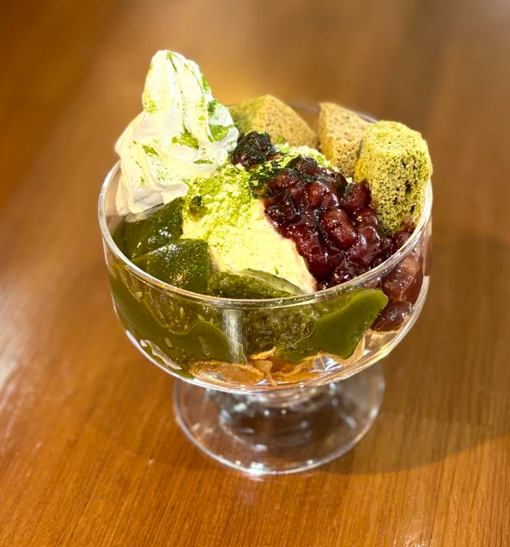
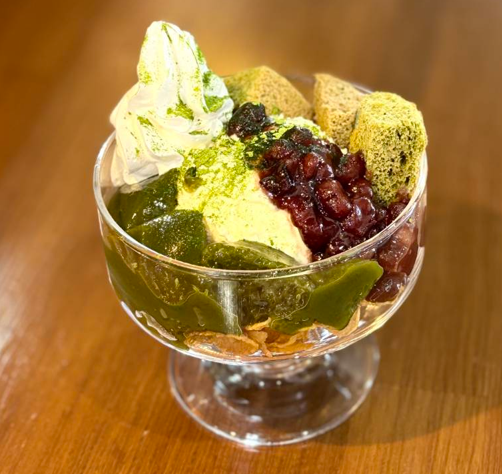
Update menu details, layouts, image position styles, and asset files

diff --git a/menu.html b/menu.html
@@ -57,7 +57,7 @@
 <nav id="mobileNav" class="mobile-nav" role="navigation" aria-label="モバイルナビゲーション">
   <button id="mobileNavClose" class="close-btn" aria-label="メニューを閉じる">✕</button>
   <a href="index.html">トップ</a>
-  <a href="about.html">あんどのこと</a>
+  <a href="about.html">お店について</a>
   <a href="index.html#children">お子様連れ歓迎</a>
   <a href="menu.html">メニュー</a>
   <a href="gallery.html">ギャラリー</a>
@@ -93,8 +93,8 @@
     <a href="index.html" class="back-to-home">
       <span>← トップページへ戻る</span>
     </a>
-    <h1 class="menu-page-title">お品書き</h1>
-    <p style="color: var(--green); font-size: 0.95rem; font-weight: 600; letter-spacing: 0.1em; margin-top: 0.5rem;">テイクアウト承ります。</p>
+    <h1 class="menu-page-title">メニュー</h1>
+    <p style="color: var(--green); font-size: 0.95rem; font-weight: 600; letter-spacing: 0.1em; margin-top: 0.5rem;">テイクアウト承ります</p>
     <div class="accent-seigaiha" style="margin-top: 1.5rem;"></div>
   </div>
 </div>
@@ -129,7 +129,35 @@
     <!-- ====== FOOD PANEL ====== -->
     <div id="panel-food" class="menu-panel" role="tabpanel" aria-labelledby="tab-food">
 
+      <p style="text-align: center; margin: 1.5rem auto 0; font-size: 0.95rem; color: var(--text-dark); font-weight: 500;">
+        テイクアウト、イートインどちらも可
+      </p>
+
       <div class="menu-cards" style="margin-top:24px;">
+
+        <!-- あんどサンド -->
+        <div class="menu-card" id="menu-sand">
+          <div class="menu-card-image" aria-label="あんどサンドの写真">
+            <div class="menu-card-image-inner">
+              <img src="img/あんどサンド.jpg" alt="あんどサンド">
+            </div>
+          </div>
+          <div class="menu-card-body">
+            <span class="menu-card-tag">あんどサンド</span>
+            <p class="menu-card-desc">
+              野菜をたっぷり使ったボリュームサンド種類はこれからも増えていきます<br>
+              あなたのお気に入りを見つけてください
+            </p>
+            <div style="margin-top: 10px; border-top: 1px dashed var(--border-color); padding-top: 8px;">
+              <p class="menu-card-desc" style="font-size: 0.85rem; line-height: 1.5; margin: 0 0 6px;">
+                <a href="#" onclick="document.getElementById('tab-sand').click(); document.getElementById('tab-sand').scrollIntoView({ behavior: 'smooth', block: 'center' }); return false;" style="color: var(--red); font-weight: 600; text-decoration: underline;">→ 詳しくはこちら</a>
+              </p>
+              <p class="menu-card-desc" style="font-size: 0.8rem; color: var(--text-dark); line-height: 1.5; margin: 0;">
+                本日のあんどサンドは<a href="https://www.instagram.com/ando.0053/" target="_blank" rel="noopener noreferrer" style="color: var(--red); text-decoration: underline; font-weight: 600;">Instagram</a>のストーリーをご確認ください
+              </p>
+            </div>
+          </div>
+        </div>
 
         <!-- モーニングプレート -->
         <div class="menu-card" id="menu-morning">
@@ -173,7 +201,9 @@
           <div class="menu-card-body">
             <span class="menu-card-tag">選べるプレート</span>
             <p class="menu-card-desc">
-              フードが<strong>2つ選べます</strong>。<br>
+              サラダ・スープ・ドリンク付<br>
+              フードが2つ選べます。<br>
+              組み合わせは<strong class="text-red">65通り以上！</strong><br>
               自分だけのプレートをお楽しみください。
             </p>
           </div>
@@ -181,6 +211,11 @@
 
         <!-- お子様ランチ -->
         <div class="menu-card" id="menu-kids-lunch">
+          <div class="menu-card-image" aria-label="お子様ランチの写真">
+            <div class="menu-card-image-inner">
+              <img src="img/お子様ランチ.jpg" alt="お子様ランチ">
+            </div>
+          </div>
           <div class="menu-card-body">
             <span class="menu-card-tag green">お子様ランチ</span>
             <p class="menu-card-desc">
@@ -714,6 +749,22 @@
           </div>
         </div>
 
+        <!-- 生絞りレモンスカッシュ -->
+        <div class="menu-card" id="menu-lemon-squash">
+          <div class="menu-card-image" aria-label="生絞りレモンスカッシュの写真">
+            <div class="menu-card-image-inner">
+              <img src="img/生絞りレモンスカッシュ.jpg" alt="生絞りレモンスカッシュ">
+            </div>
+          </div>
+          <div class="menu-card-body">
+            <span class="menu-card-tag">生絞りレモンスカッシュ</span>
+            <p class="menu-card-desc">
+              フレッシュなレモンを贅沢に絞った、すっきり爽快なドリンク。<br>
+              季節によって自家栽培/無農薬レモン使用
+            </p>
+          </div>
+        </div>
+
         <!-- クリームソーダ -->
         <div class="menu-card" id="menu-cream-soda">
           <div class="menu-card-image" aria-label="クリームソーダの写真">
@@ -725,21 +776,6 @@
             <span class="menu-card-tag">クリームソーダ</span>
             <p class="menu-card-desc">
               さわやかなソーダに、冷たいアイスクリームを載せた定番ドリンクです。
-            </p>
-          </div>
-        </div>
-
-        <!-- 生絞りレモンスカッシュ -->
-        <div class="menu-card" id="menu-lemon-squash">
-          <div class="menu-card-image" aria-label="生絞りレモンスカッシュの写真">
-            <div class="menu-card-image-inner">
-              <img src="img/生絞りレモンスカッシュ.jpg" alt="生絞りレモンスカッシュ">
-            </div>
-          </div>
-          <div class="menu-card-body">
-            <span class="menu-card-tag">生絞りレモンスカッシュ</span>
-            <p class="menu-card-desc">
-              フレッシュなレモンを贅沢に絞った、すっきり爽快なドリンク。
             </p>
           </div>
         </div>
@@ -798,6 +834,9 @@
               <span style="font-size: 0.85rem; opacity: 0.85; display: inline-block; margin-top: 0.5rem;">※常時ご用意しているわけではないため、事前にお問い合わせいただけますと幸いです。</span>
             </p>
           </div>
+          <div class="matcha-hero-image-wrap">
+            <img src="img/HERO2.jpg" alt="お抹茶" class="matcha-hero-image">
+          </div>
         </div>
         <div class="seigaiha-border-bottom" aria-hidden="true"></div>
       </div>
@@ -808,7 +847,7 @@
         <div class="menu-card" id="menu-matcha-hyo">
           <div class="menu-card-image" aria-label="抹茶氷(期間限定)の写真">
             <div class="menu-card-image-inner">
-              <img src="img/抹茶氷.jpg" alt="抹茶氷(期間限定)">
+              <img src="img/抹茶氷.png" alt="抹茶氷(期間限定)">
             </div>
           </div>
           <div class="menu-card-body">
@@ -845,6 +884,36 @@
             <span class="menu-card-tag">抹茶パフェ</span>
             <p class="menu-card-desc">
               お抹茶のアイスやゼリーを贅沢に詰め込んだ、見た目も華やかなパフェ。
+            </p>
+          </div>
+        </div>
+
+        <!-- 抹茶ゼリー -->
+        <div class="menu-card" id="menu-matcha-jelly">
+          <div class="menu-card-image" aria-label="抹茶ゼリーの写真">
+            <div class="menu-card-image-inner">
+              <img src="img/抹茶ゼリー.jpg" alt="抹茶ゼリー">
+            </div>
+          </div>
+          <div class="menu-card-body">
+            <span class="menu-card-tag">抹茶ゼリー</span>
+            <p class="menu-card-desc">
+              つるんと喉越しの良い、濃厚な抹茶の旨みが広がる自家製ゼリーです。
+            </p>
+          </div>
+        </div>
+
+        <!-- 抹茶バスクチーズケーキ -->
+        <div class="menu-card" id="menu-matcha-basque-cheese">
+          <div class="menu-card-image" aria-label="抹茶バスクチーズケーキの写真">
+            <div class="menu-card-image-inner">
+              <img src="img/抹茶バスクチーズケーキ.jpg" alt="抹茶バスクチーズケーキ">
+            </div>
+          </div>
+          <div class="menu-card-body">
+            <span class="menu-card-tag">抹茶バスクチーズケーキ</span>
+            <p class="menu-card-desc">
+              宇治抹茶を贅沢に練り込み、高温で香ばしく焼き上げた濃厚なバスクチーズケーキです。
             </p>
           </div>
         </div>
@@ -982,7 +1051,7 @@
         <div class="menu-card" id="menu-coffee-jelly">
           <div class="menu-card-image" aria-label="コーヒーゼリーの写真">
             <div class="menu-card-image-inner">
-              <img src="img/コーヒーゼリー.png" alt="コーヒーゼリー">
+              <img src="img/コーヒーゼリー.jpg" alt="コーヒーゼリー">
             </div>
           </div>
           <div class="menu-card-body">
@@ -1019,6 +1088,24 @@
             <span class="menu-card-tag">バニラアイス</span>
             <p class="menu-card-desc">
               香り豊かなバニラの風味が口いっぱいに広がる、シンプルで上品なアイスクリーム。
+            </p>
+          </div>
+        </div>
+
+        <!-- マフィン各種 -->
+        <div class="menu-card" id="menu-muffin-variety">
+          <div class="menu-card-image" aria-label="マフィン各種の写真">
+            <div class="menu-card-image-inner">
+              <div class="slider-container" id="muffin-slider">
+                <img src="img/マフィン各種1.jpg" alt="マフィン各種1" class="slide active">
+                <img src="img/マフィン各種2.jpg" alt="マフィン各種2" class="slide">
+              </div>
+            </div>
+          </div>
+          <div class="menu-card-body">
+            <span class="menu-card-tag">マフィン各種</span>
+            <p class="menu-card-desc">
+              日替わりでご用意する手作りマフィン。様々なフレーバーをお楽しみいただけます。
             </p>
           </div>
         </div>

diff --git a/css/style.css b/css/style.css
@@ -1322,10 +1322,27 @@ section {
 .matcha-hero-inner {
   position: relative;
   z-index: 1;
-  display: flex;
+  display: grid;
+  grid-template-columns: 1.2fr 0.8fr;
+  gap: 2.5rem;
   align-items: center;
-  justify-content: center;
   width: 100%;
+}
+
+.matcha-hero-image-wrap {
+  width: 100%;
+  display: flex;
+  justify-content: center;
+  align-items: center;
+}
+
+.matcha-hero-image {
+  width: 100%;
+  height: auto;
+  aspect-ratio: 4/3;
+  object-fit: cover;
+  border: 1px solid rgba(255, 255, 255, 0.2);
+  display: block;
 }
 
 .matcha-items {
@@ -1971,6 +1988,11 @@ section {
   height: 100%;
   object-fit: cover;
   display: block;
+}
+
+#menu-matcha-hyo .menu-card-image-inner img,
+#menu-matcha-parfait .menu-card-image-inner img {
+  object-position: top;
 }
 
 /* ===== DRINK DETAIL IMAGE STYLE (SHOW ALL) ===== */

diff --git a/index.html b/index.html
@@ -90,7 +90,7 @@
 <nav id="mobileNav" class="mobile-nav" role="navigation" aria-label="モバイルナビゲーション">
   <button id="mobileNavClose" class="close-btn" aria-label="メニューを閉じる">✕</button>
   <a href="#hero">トップ</a>
-  <a href="about.html">あんどのこと</a>
+  <a href="about.html">お店について</a>
   <a href="#children">お子様連れ歓迎</a>
   <a href="menu.html">メニュー</a>
   <a href="gallery.html">ギャラリー</a>
@@ -226,6 +226,7 @@
           <div class="children-item-text">
             <h4>お子様ランチご用意あります</h4>
             <p>お子様向けのかわいいお食事プレートをご用意しております</p>
+            <img src="img/お子様ランチ.jpg" alt="あんど お子様ランチ" class="children-item-img">
           </div>
         </div>
       </div>

diff --git a/about.html b/about.html
@@ -272,7 +272,7 @@
 <nav id="mobileNav" class="mobile-nav" role="navigation" aria-label="モバイルナビゲーション">
   <button id="mobileNavClose" class="close-btn" aria-label="メニューを閉じる">✕</button>
   <a href="index.html">トップ</a>
-  <a href="about.html">あんどのこと</a>
+  <a href="about.html">お店について</a>
   <a href="index.html#children">お子様連れ歓迎</a>
   <a href="menu.html">メニュー</a>
   <a href="gallery.html">ギャラリー</a>

diff --git a/gallery.html b/gallery.html
@@ -66,7 +66,7 @@
 <nav id="mobileNav" class="mobile-nav" role="navigation" aria-label="モバイルナビゲーション">
   <button id="mobileNavClose" class="close-btn" aria-label="メニューを閉じる">✕</button>
   <a href="index.html">トップ</a>
-  <a href="about.html">あんどのこと</a>
+  <a href="about.html">お店について</a>
   <a href="index.html#children">お子様連れ歓迎</a>
   <a href="menu.html">メニュー</a>
   <a href="gallery.html" class="menu-nav-active">ギャラリー</a>

diff --git a/js/main.js b/js/main.js
@@ -206,6 +206,7 @@ window.addEventListener('DOMContentLoaded', () => {
   initMenuSlider('shop-slider');
   initMenuSlider('concept-mobile-slider');
   initMenuSlider('concept-image-slider');
+  initMenuSlider('muffin-slider');
 });
 
 